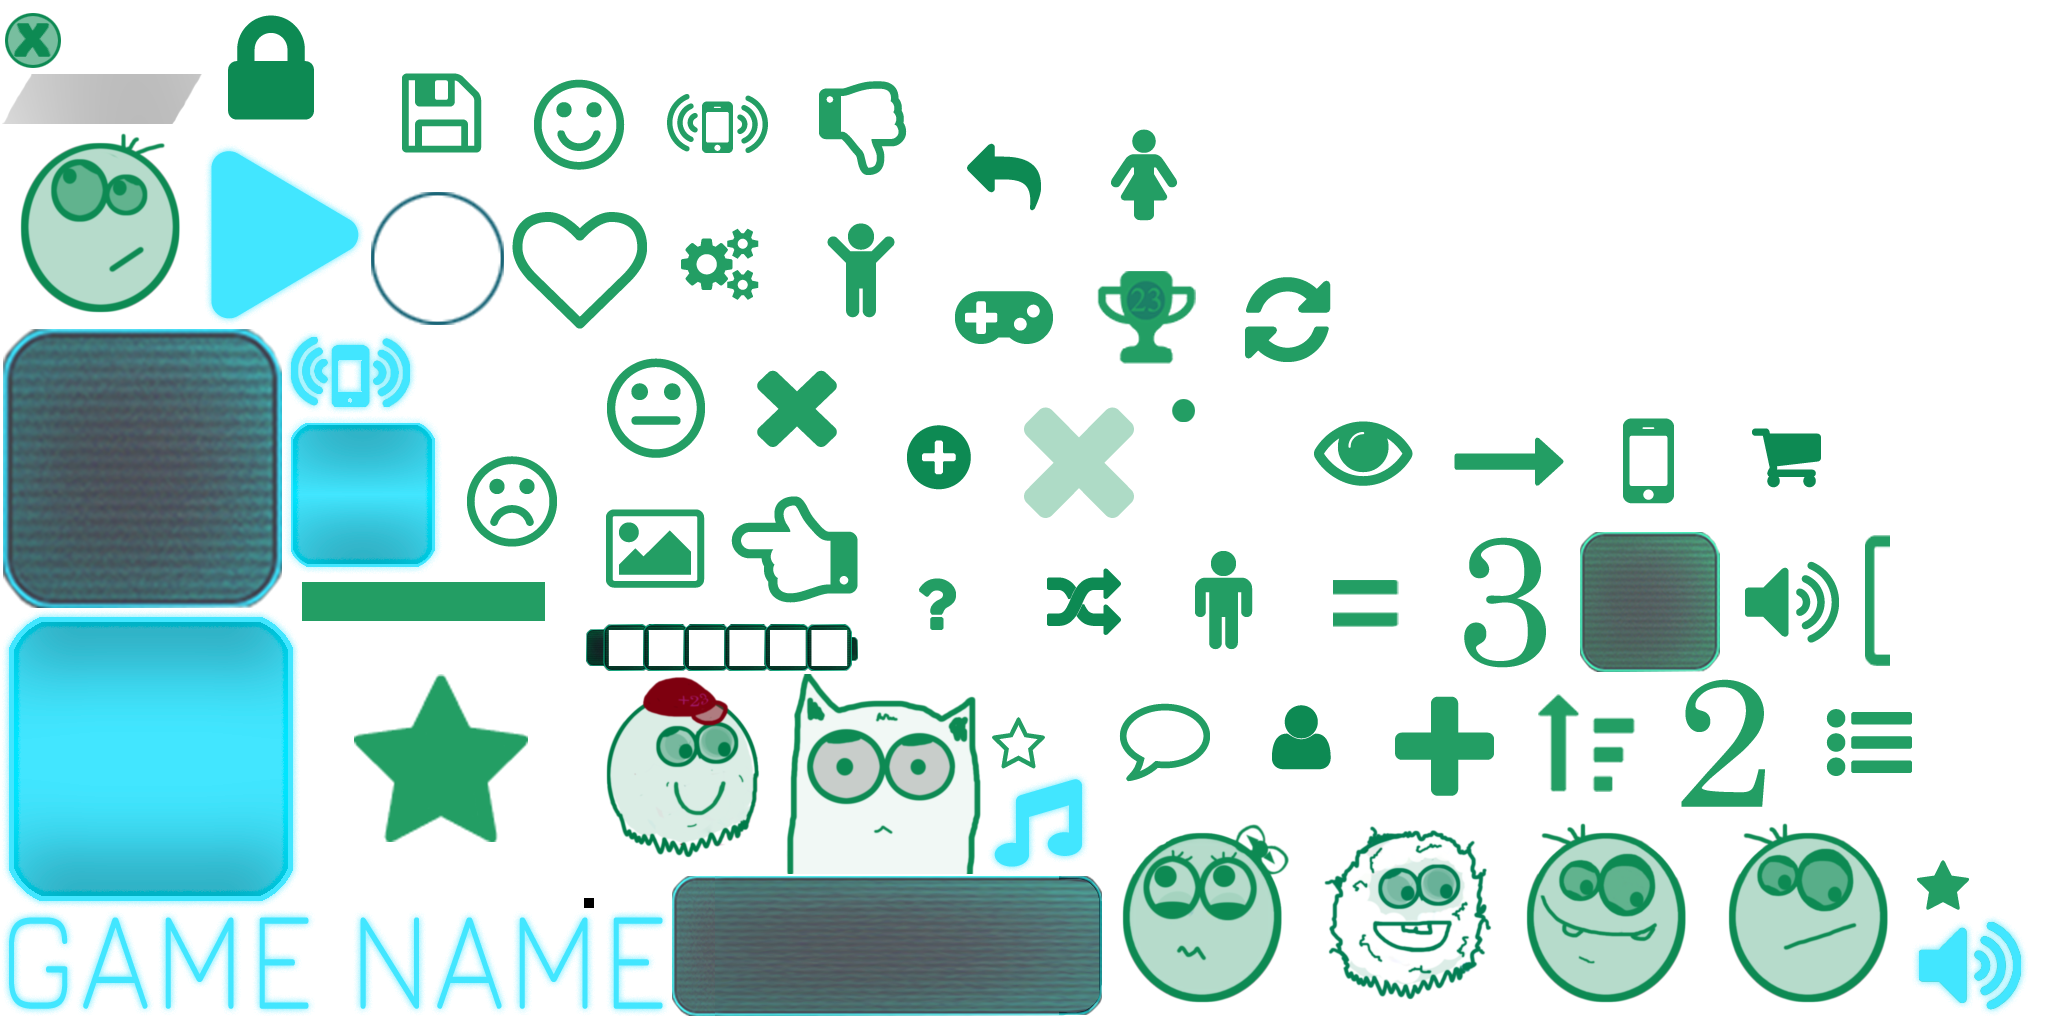
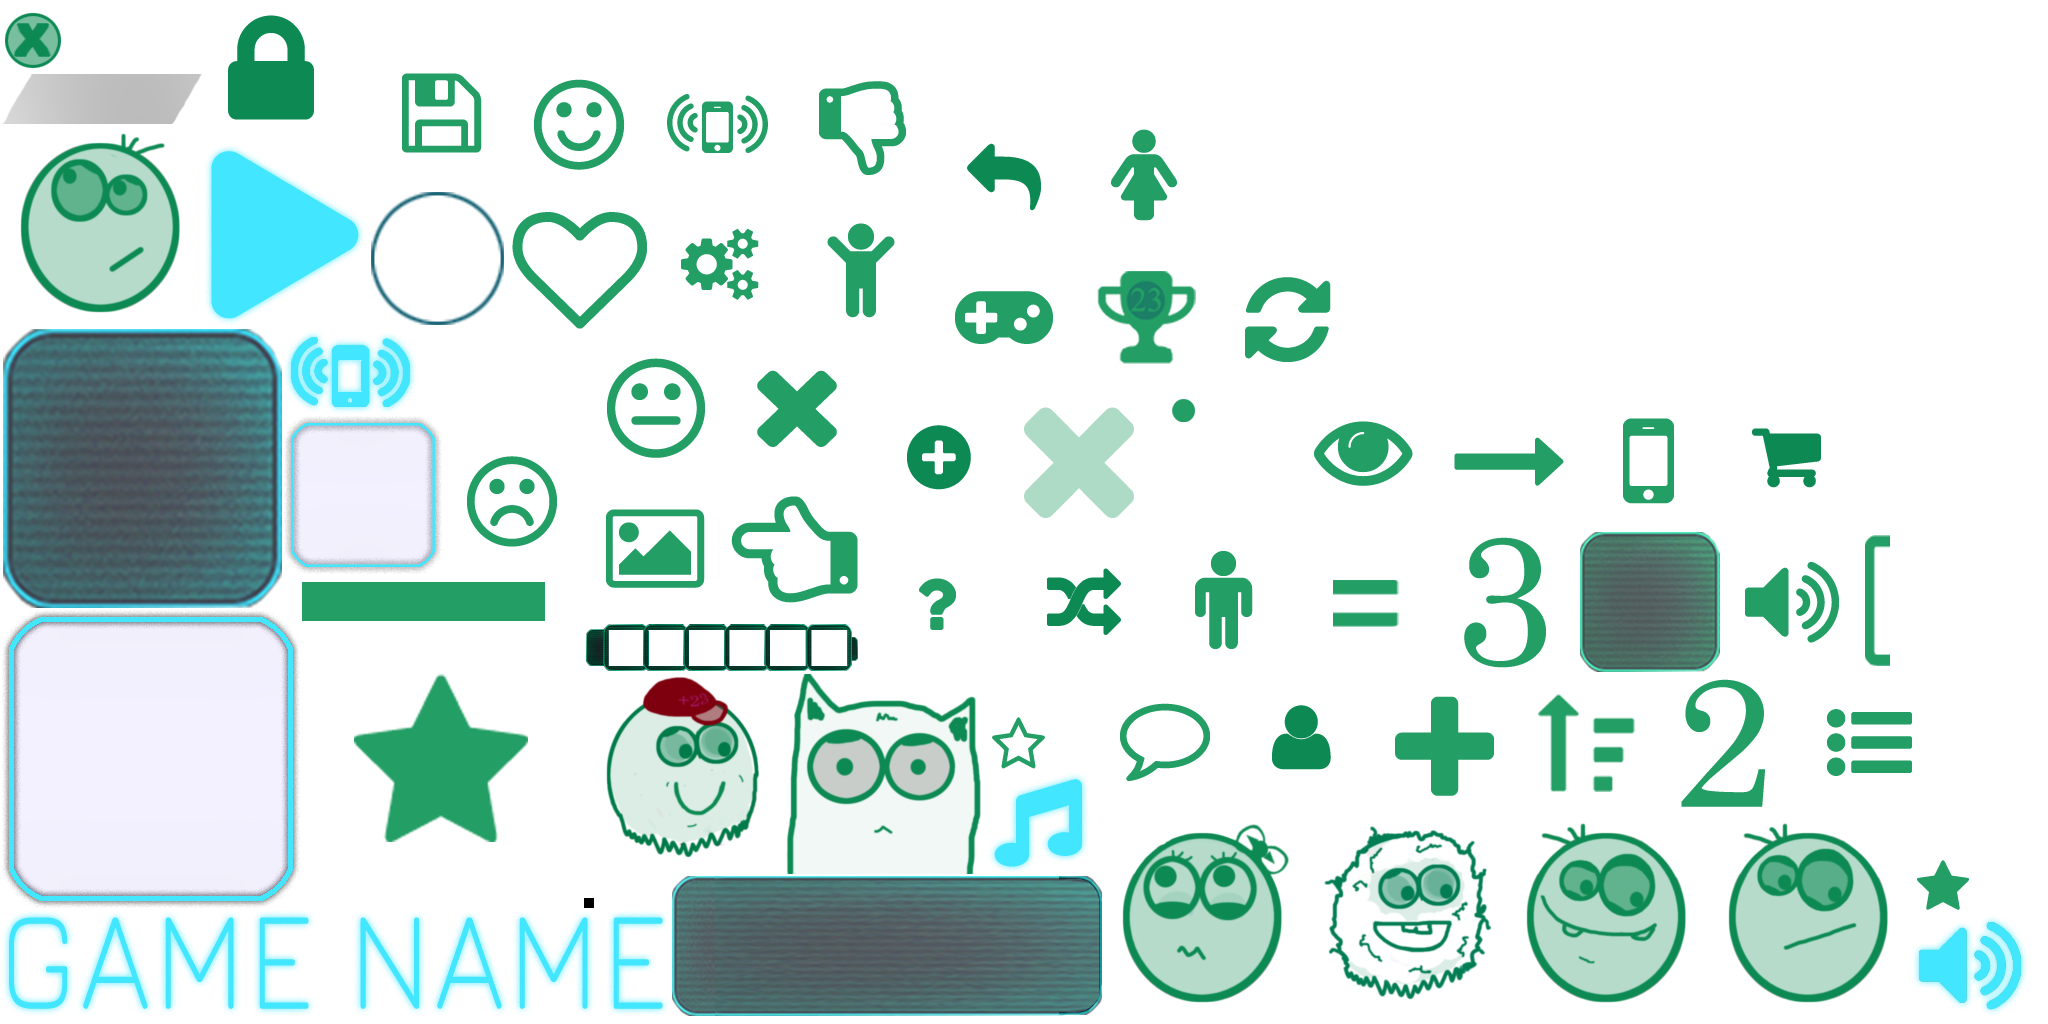
[FEATURE] add main menu actors

Changed region(s): [[0.0, 0.5938, 0.1562, 0.9062], [0.125, 0.4062, 0.2188, 0.5625]]

diff --git a/core/src/com/tapcon/game/screens/MainMenuScreen.kt b/core/src/com/tapcon/game/screens/MainMenuScreen.kt
@@ -1,30 +1,71 @@
 package com.tapcon.game.screens
 
+import com.badlogic.gdx.Gdx
+import com.badlogic.gdx.graphics.GL20
+import com.badlogic.gdx.scenes.scene2d.Actor
+import com.badlogic.gdx.scenes.scene2d.InputEvent
 import com.badlogic.gdx.scenes.scene2d.ui.Table
-import com.badlogic.gdx.scenes.scene2d.ui.Value
+import com.badlogic.gdx.scenes.scene2d.utils.ClickListener
 import com.badlogic.gdx.utils.Align
-import com.tapcon.game.Config
-import com.tapcon.game.actors.main_menu.MusicButton
+import com.tapcon.game.actors.Background
+import com.tapcon.game.actors.main_menu.GameName
+import com.tapcon.game.actors.main_menu.MenuButton
 import com.tapcon.game.actors.main_menu.PlayButton
-import com.tapcon.game.actors.main_menu.SoundButton
-import com.tapcon.game.actors.main_menu.VibrationButton
+import com.tapcon.game.api.AnimationType
+import com.tapcon.game.data.Assets.InterfaceAtlas.Companion.MUSIC_ICON
+import com.tapcon.game.data.Assets.InterfaceAtlas.Companion.SOUND_ICON
+import com.tapcon.game.data.Assets.InterfaceAtlas.Companion.VIBRATION_ICON
+import com.tapcon.game.managers.AudioManager
 import com.tapcon.game.managers.ScreenManager
+import com.tapcon.game.managers.VibrationManager
+import com.tapcon.game.managers.VibrationManager.VibrationType.CLICK
 
 class MainMenuScreen(params: Map<ScreenManager.Param, Any>) : GameScreen(params) {
 
     private val playButton = PlayButton(manager)
-    private val musicButton = MusicButton(manager)
-    private val soundButton = SoundButton(manager)
-    private val vibrationButton = VibrationButton(manager)
+    private val musicButton = MenuButton(manager, MUSIC_ICON, AudioManager.isMusicEnable)
+    private val soundButton = MenuButton(manager, SOUND_ICON, AudioManager.isSoundEnable)
+    private val vibrationButton = MenuButton(manager, VIBRATION_ICON, VibrationManager.isVibrationEnable)
+    private val gameName = GameName(manager)
 
     init {
+        stageBackground.addActor(Background(manager))
         buildLayout()
+
+        Gdx.input.inputProcessor = stage
+
+        addListenersToButtons(musicButton) {
+            AudioManager.switchMusicSetting()
+            //if(AudioManager.isMusicEnable) AudioManager.play(AudioManager.MusicApp.GAME_MUSIC) //TODO Game Music
+        }
+
+        addListenersToButtons(soundButton) { AudioManager.switchSoundSetting() }
+
+        addListenersToButtons(vibrationButton) { VibrationManager.switchVibrationSetting() }
+
+        addListenersToButtons(playButton) {
+            animate(AnimationType.SCENE_TRANSFER)
+        }
     }
 
-    private fun buildLayout(){
+    private fun addListenersToButtons(actor: Actor, function: () -> Unit) {
+        actor.addListener(object : ClickListener() {
+            override fun touchDown(event: InputEvent?, x: Float, y: Float, pointer: Int, button: Int): Boolean {
+                function.invoke()
+                if(actor is MenuButton) actor.switch()
+                if (AudioManager.isSoundEnable) AudioManager.play(AudioManager.SoundApp.CLICK_SOUND)
+                if (VibrationManager.isVibrationEnable) VibrationManager.vibrate(CLICK)
+                return super.touchDown(event, x, y, pointer, button)
+            }
+        })
+    }
+
+    private fun buildLayout() {
         val table = Table().apply {
             setFillParent(true)
             row().expand()
+            add(gameName).padBottom(100f).center().colspan(30)
+            row().expandX().padBottom(30f)
             add(playButton).padBottom(100f).center().colspan(30)
             row().expandX().padBottom(30f)
             add(musicButton).padLeft(50f).align(Align.left)
@@ -44,6 +85,9 @@ class MainMenuScreen(params: Map<ScreenManager.Param, Any>) : GameScreen(params)
     }
 
     override fun render(delta: Float) {
+        //Gdx.gl.glClear(GL20.GL_COLOR_BUFFER_BIT)
+        val bufferBitMv = if (Gdx.graphics.bufferFormat.coverageSampling) GL20.GL_COVERAGE_BUFFER_BIT_NV else 0
+        Gdx.gl.glClear(GL20.GL_COLOR_BUFFER_BIT or GL20.GL_DEPTH_BUFFER_BIT or bufferBitMv)
         applyStages(delta)
     }
 

diff --git a/core/src/com/tapcon/game/managers/AudioManager.kt b/core/src/com/tapcon/game/managers/AudioManager.kt
@@ -17,16 +17,16 @@ object AudioManager {
     interface Audio
 
     enum class SoundApp(val descriptor: AssetDescriptor<Sound>, val volume: Float = 1f) : Audio {
-        CLICK_SOUND(AssetDescriptor("${Config.SOUNDS_FOLDER}/click.mp3", Sound::class.java), 0.3f),
-        CRUNCH(AssetDescriptor("${Config.SOUNDS_FOLDER}/crunch.mp3", Sound::class.java), 0.3f),
-        JUMP_ON_BOX(AssetDescriptor("${Config.SOUNDS_FOLDER}/jump_on_box.wav", Sound::class.java)),
-        JUMP(AssetDescriptor("${Config.SOUNDS_FOLDER}/jump.wav", Sound::class.java)),
-        SCORE(AssetDescriptor("${Config.SOUNDS_FOLDER}/score.wav", Sound::class.java), 0.3f)
+        CLICK_SOUND(AssetDescriptor("${Config.SOUNDS_FOLDER}/click.ogg", Sound::class.java), 0.3f),
+        //CRUNCH(AssetDescriptor("${Config.SOUNDS_FOLDER}/crunch.mp3", Sound::class.java), 0.3f),
+        //JUMP_ON_BOX(AssetDescriptor("${Config.SOUNDS_FOLDER}/jump_on_box.wav", Sound::class.java)),
+        //JUMP(AssetDescriptor("${Config.SOUNDS_FOLDER}/jump.wav", Sound::class.java)),
+        //SCORE(AssetDescriptor("${Config.SOUNDS_FOLDER}/score.wav", Sound::class.java), 0.3f)
     }
 
     enum class MusicApp(val descriptor: AssetDescriptor<Music>, val volume: Float = 1f) : Audio {
-        GAME_MUSIC(AssetDescriptor("${Config.SOUNDS_FOLDER}/gameMusic.mp3", Music::class.java), 0.3f),
-        MAIN_MENU_MUSIC(AssetDescriptor("${Config.SOUNDS_FOLDER}/mainMenuMusic.mp3", Music::class.java)),
+        //GAME_MUSIC(AssetDescriptor("${Config.SOUNDS_FOLDER}/gameMusic.mp3", Music::class.java), 0.3f),
+        //MAIN_MENU_MUSIC(AssetDescriptor("${Config.SOUNDS_FOLDER}/mainMenuMusic.mp3", Music::class.java)),
     }
 
     private val prefs = Gdx.app.getPreferences(Prefs.NAME)

diff --git a/core/src/com/tapcon/game/actors/main_menu/MenuButton.kt b/core/src/com/tapcon/game/actors/main_menu/MenuButton.kt
@@ -1,0 +1,42 @@
+package com.tapcon.game.actors.main_menu
+
+import com.badlogic.gdx.assets.AssetManager
+import com.badlogic.gdx.graphics.g2d.Batch
+import com.tapcon.game.api.GameActor
+import com.tapcon.game.data.Assets
+import com.tapcon.game.data.Descriptors
+
+class MenuButton(manager : AssetManager, assetName: String, private var isEnabled: Boolean) : GameActor() {
+    private val texture = manager.get(Descriptors.gameInterface)
+    private var border = texture.findRegion(Assets.InterfaceAtlas.BORDER_MINI)
+    private var icon = texture.findRegion(assetName)
+    private val iconPadX = (border.originalWidth.toFloat() - icon.originalWidth.toFloat()) / 2
+    private val iconPadY = (border.originalHeight.toFloat() - icon.originalHeight.toFloat()) / 2
+
+    init {
+        width = border.originalWidth.toFloat()
+        height = border.originalHeight.toFloat()
+    }
+
+    override fun draw(batch: Batch?, parentAlpha: Float) {
+        color.a = parentAlpha
+        batch!!.color = color
+        drawBorder(batch)
+        drawPlayIcon(batch, parentAlpha)
+    }
+
+    private fun drawBorder(batch: Batch){
+        batch.draw(border, x, y, width, height)
+    }
+
+    private fun drawPlayIcon(batch: Batch, parentAlpha: Float){
+        val blendAlpha = parentAlpha / 3f
+        color.a = if(isEnabled.not()) blendAlpha else parentAlpha
+        batch.color = color
+        batch.draw(icon, x + iconPadX, y + iconPadY, icon.originalWidth.toFloat(), icon.originalHeight.toFloat())
+    }
+
+    fun switch() {
+        isEnabled = !isEnabled
+    }
+}

diff --git a/core/src/com/tapcon/game/actors/main_menu/PlayButton.kt b/core/src/com/tapcon/game/actors/main_menu/PlayButton.kt
@@ -9,16 +9,17 @@ import com.tapcon.game.data.Descriptors
 
 class PlayButton(manager : AssetManager) : GameActor() {
     private val texture = manager.get(Descriptors.gameInterface)
-    private var border = texture.findRegion(Assets.InterfaceAtlas.BORDER_GREEN)
+    private var border = texture.findRegion(Assets.InterfaceAtlas.BORDER)
     private var playIcon = texture.findRegion(Assets.InterfaceAtlas.PLAY)
 
     init {
-        width = border.originalWidth.toFloat() * 2
-        height = border.originalHeight.toFloat() * 2
+        width = border.originalWidth.toFloat()
+        height = border.originalHeight.toFloat()
     }
 
     override fun draw(batch: Batch?, parentAlpha: Float) {
-        batch!!.color = Color.WHITE
+        color.a = parentAlpha
+        batch!!.color = color
         drawBorder(batch)
         drawPlayIcon(batch)
     }
@@ -28,6 +29,6 @@ class PlayButton(manager : AssetManager) : GameActor() {
     }
 
     private fun drawPlayIcon(batch: Batch){
-        batch.draw(playIcon, x, y, width, height)
+        batch.draw(playIcon, x + 60, y + 60, playIcon.originalWidth.toFloat(), playIcon.originalHeight.toFloat())
     }
 }

diff --git a/core/src/com/tapcon/game/actors/main_menu/GameName.kt b/core/src/com/tapcon/game/actors/main_menu/GameName.kt
@@ -1,0 +1,27 @@
+package com.tapcon.game.actors.main_menu
+
+import com.badlogic.gdx.assets.AssetManager
+import com.badlogic.gdx.graphics.g2d.Batch
+import com.tapcon.game.api.GameActor
+import com.tapcon.game.data.Assets
+import com.tapcon.game.data.Descriptors
+
+class GameName(manager : AssetManager) : GameActor() {
+    private val texture = manager.get(Descriptors.gameInterface)
+    private var region = texture.findRegion(Assets.InterfaceAtlas.GAME_NAME)
+
+    init {
+        width = region.originalWidth.toFloat()
+        height = region.originalHeight.toFloat()
+    }
+
+    override fun draw(batch: Batch?, parentAlpha: Float) {
+        color.a = parentAlpha
+        batch!!.color = color
+        drawBorder(batch)
+    }
+
+    private fun drawBorder(batch: Batch){
+        batch.draw(region, x, y, width, height)
+    }
+}

diff --git a/core/src/com/tapcon/game/screens/LoadingScreen.kt b/core/src/com/tapcon/game/screens/LoadingScreen.kt
@@ -22,6 +22,7 @@ import com.tapcon.game.actors.loading_progress.LoadingText
 import com.tapcon.game.actors.loading_progress.ProgressBar
 import com.tapcon.game.api.AnimationType
 import com.tapcon.game.data.Descriptors
+import com.tapcon.game.managers.AudioManager
 import com.tapcon.game.managers.ScreenManager
 import com.tapcon.game.managers.ScreenManager.Param.FIRST_APP_RUN
 
@@ -119,8 +120,8 @@ class LoadingScreen(params: Map<ScreenManager.Param, Any>) : GameScreen(params) 
         manager.load(Descriptors.icons)
         manager.load(Descriptors.gameInterface)
         //loadFonts()
-        //AudioManager.loadMusic(manager)
-        //AudioManager.loadSounds(manager)
+        AudioManager.loadMusic(manager)
+        AudioManager.loadSounds(manager)
     }
 
     private fun loadFonts() {

diff --git a/core/src/com/tapcon/game/data/Assets.kt b/core/src/com/tapcon/game/data/Assets.kt
@@ -19,9 +19,12 @@ class Assets {
         companion object {
             const val NAME = "interface.atlas"
             const val PLAY = "play"
-            const val BORDER_GREEN = "border_green"
-            const val SOUND = "sound"
-            const val VIBRATION = "vibration"
+            const val BORDER = "border"
+            const val BORDER_MINI = "border_mini"
+            const val SOUND_ICON = "sound_icon"
+            const val MUSIC_ICON = "music_icon"
+            const val VIBRATION_ICON = "vibration_icon"
+            const val GAME_NAME = "game_name"
         }
     }
 
